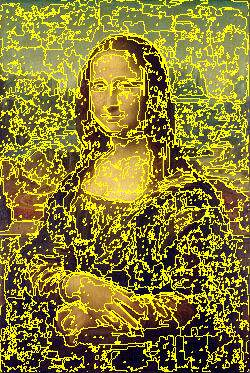
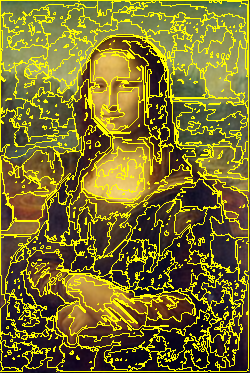
feat: added the gaussian blur using 3x3 kernel

diff --git a/src/stb/image_processing.cpp b/src/stb/image_processing.cpp
@@ -27,8 +27,64 @@
 #include <cstring>
 
 
-unsigned char* toGaussian_blur() {
+/**
+ * @brief Faz os calculos utilizando um kernel para espalhar as cores, evitar ruidos nas cores da imagem,
+ * o que melhora a segmentação
+ * @param originalData dados da imagem original
+ * @param width largura da imagem
+ * @param height altura da imagem
+ * @param channels quantos canais a imagem possui
+ */
+unsigned char* toGaussian_blur(unsigned char* originalData ,int width, int height, int channels) {
+    int kernel[3][3] {
+        {1,2,1}, 
+        {2,4,2}, 
+        {1,2,1}
+    };
+
+
+    size_t buffer_size = width * height * channels;
+
+    unsigned char* outputData = new unsigned char[buffer_size];
+
+    const int dy[] = {-1, -1, -1,  0, 0, 0,  1, 1, 1};
+    const int dx[] = {-1,  0,  1, -1, 0, 1, -1, 0, 1};
     
+    for(int y = 0; y<height; ++y) {
+        for(int x = 0; x<width; ++x) {
+            int index =((y * width) + x) * channels;
+
+            double sumR = 0.0;
+            double sumG = 0.0;
+            double sumB = 0.0;
+
+            for(int i = 0; i<9; i++){
+        
+                int nextX = x + dx[i];
+                int nextY = y + dy[i];
+
+                if (nextX >= 0 && nextX < width && nextY >= 0 && nextY < height) {
+
+                    int index_pixel = (nextY * width + nextX) * channels;
+
+                    double weight = kernel[i/3][i%3];
+        
+                    sumR += (originalData[index_pixel] * weight);
+                    sumG += (originalData[index_pixel + 1] * weight);
+                    sumB += (originalData[index_pixel + 2] * weight);
+
+                    
+                }
+            }
+
+            outputData[index] = static_cast<unsigned char>(sumR/16.0);
+            outputData[index+1] = static_cast<unsigned char>(sumG/16.0);
+            outputData[index+2] = static_cast<unsigned char>(sumB/16.0);
+
+        }
+
+    }
+    return outputData;   
 }
 
 /**
@@ -86,6 +142,7 @@ void write_segmented_image(const char* output_filename, int width, int height, i
             }
         }
     }
+    PixelColor colors;
 
 
     int stride_in_bytes = width * channels;
@@ -107,6 +164,8 @@ unsigned char* create_graph(const char * imagePath, Undirected_graph &graph) {
     
     // Força o carregamento com 3 canais (RGB)
     unsigned char * imageData = stbi_load(imagePath, &width, &height, &original_channels, 3); 
+
+    imageData = toGaussian_blur(imageData, width, height, original_channels); //faz blur na imagem, que vai melhorar a segmentação
 
     if(imageData == nullptr) {
         std::cerr << "Imagem vazia ou invalida " << imagePath << std::endl;
@@ -203,6 +262,33 @@ unsigned char* create_graph(const char * imagePath, Undirected_graph &graph) {
         mst.pop_back();
     }
 }*/
+
+
+// A função recebe o nome do arquivo, dimensões e o ponteiro para os dados
+void escreverImagem(const std::string& nomeArquivo, int width, int height, int channels, const unsigned char* data) {
+    // Verifica a extensão do arquivo para decidir o formato
+    std::string ext = nomeArquivo.substr(nomeArquivo.find_last_of(".") + 1);
+
+    int sucesso = 0;
+    if (ext == "png") {
+        // stbi_write_png(nome, largura, altura, canais, dados, largura_em_bytes_por_linha)
+        sucesso = stbi_write_png(nomeArquivo.c_str(), width, height, channels, data, width * channels);
+    } else if (ext == "jpg" || ext == "jpeg") {
+        // stbi_write_jpg(nome, largura, altura, canais, dados, qualidade)
+        sucesso = stbi_write_jpg(nomeArquivo.c_str(), width, height, channels, data, 95); // 95 é uma boa qualidade
+    } else if (ext == "bmp") {
+        sucesso = stbi_write_bmp(nomeArquivo.c_str(), width, height, channels, data);
+    } else {
+        std::cerr << "Erro: Extensao de arquivo nao suportada: " << ext << std::endl;
+        return;
+    }
+
+    if (sucesso) {
+        std::cout << "Imagem salva com sucesso em: " << nomeArquivo << std::endl;
+    } else {
+        std::cerr << "Erro: Nao foi possivel salvar a imagem." << std::endl;
+    }
+}
 
 int main() {
     Undirected_graph g;
